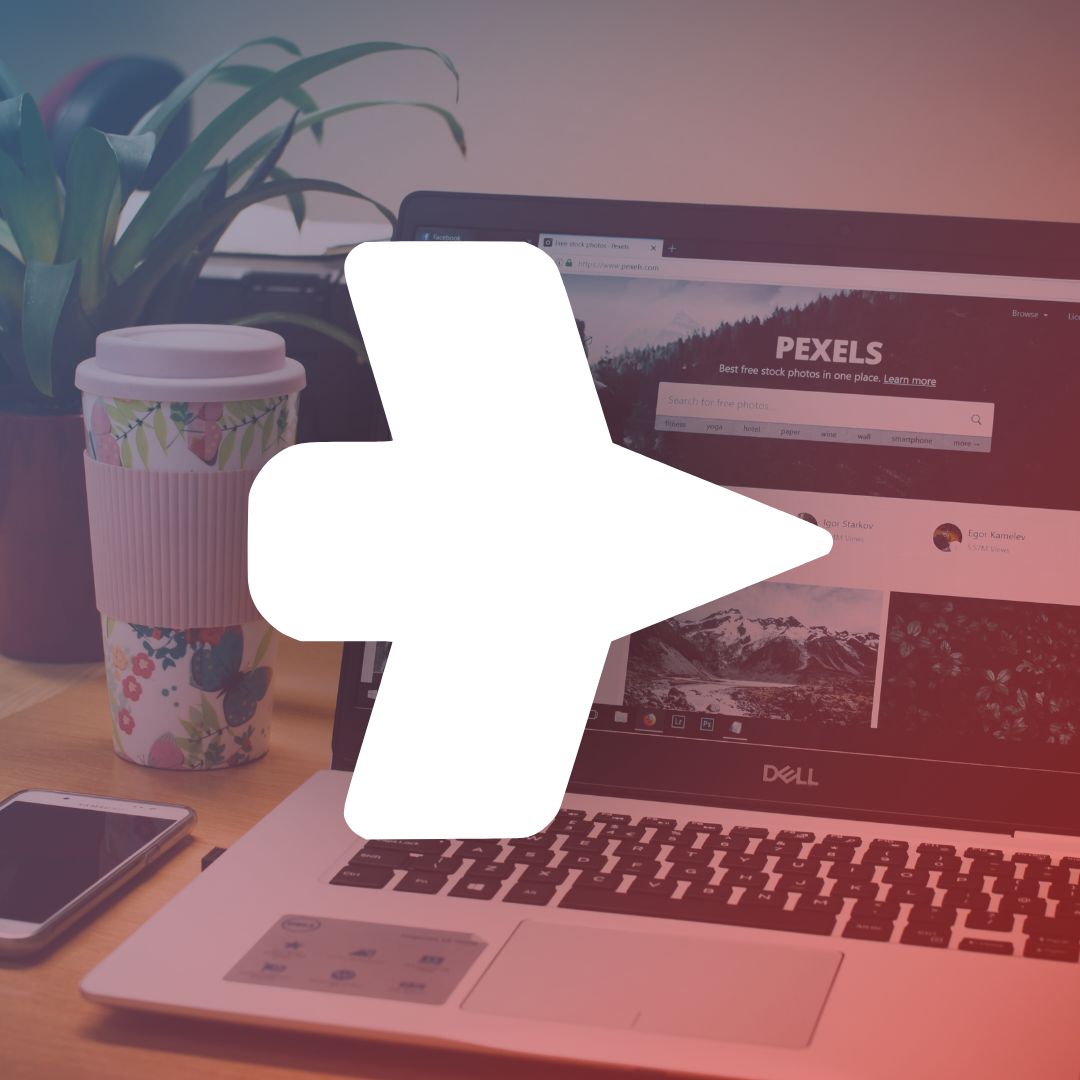
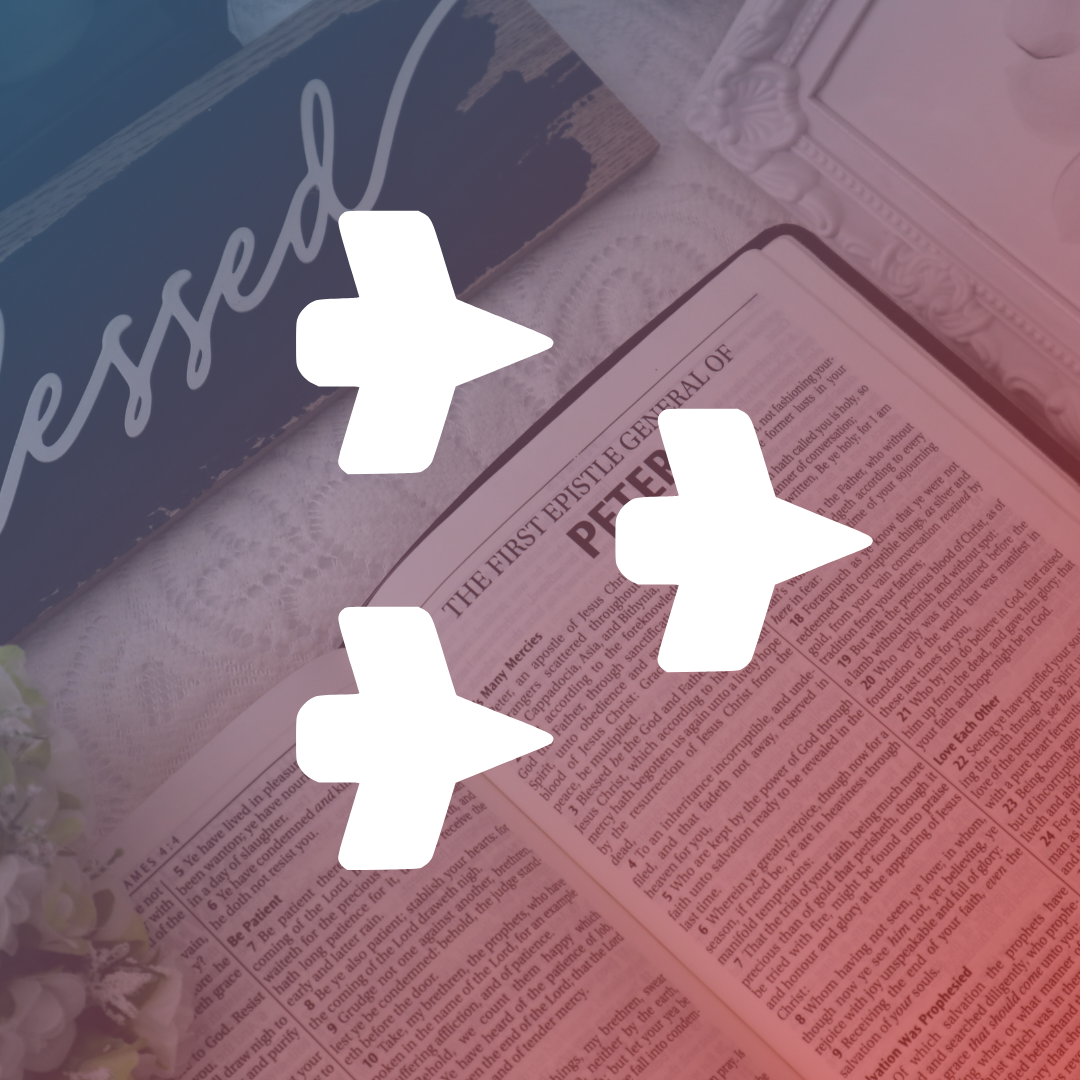
att vee project

diff --git a/src/data/projects/vee.ts b/src/data/projects/vee.ts
@@ -14,17 +14,17 @@ const vee = new Project("VEE", [rgmenezes]);
 
 vee.content = {
     summary: 
-    "A VEE é uma plataforma de criação de sites e sistemas que oferece soluções rápidas e profissionais para empreendedores digitais, tornando seu negócio online mais eficiente e acessível.",
-  
+    "A VEE é um espaço de estudo, reflexão e crescimento espiritual, oferecendo conteúdos que fortalecem a fé e incentivam aprendizado contínuo da Palavra.",
+
     cta: 
-    "Conhecer a VEE +",
-  
+    "Explorar a VEE +",
+
     description: 
-    `A VEE é um projeto da TART desenvolvido para ajudar empreendedores a terem presença digital de forma rápida e eficiente. Com a VEE, você pode criar sites e sistemas personalizados, garantindo que seu negócio esteja online com qualidade e sem complicações.\n
-    A plataforma foi criada para ser intuitiva, responsiva e segura, permitindo que você gerencie seus projetos digitais com facilidade, tanto em computadores quanto em dispositivos móveis.\n
-    Entre as principais funcionalidades da VEE estão: templates prontos e personalizáveis, sistemas sob medida de acordo com a necessidade do cliente, integração com ferramentas digitais e um painel de controle simples para gerenciar seu site ou sistema.\n
-    Durante o desenvolvimento da VEE, enfrentamos desafios como unir rapidez, design moderno e funcionalidade robusta. Todos foram superados para oferecer uma solução confiável e prática para empreendedores.\n
-    A VEE é ideal para quem deseja lançar seu negócio online de maneira profissional e ágil. Experimente a VEE e transforme suas ideias em sites e sistemas de qualidade com facilidade!`
+    `A VEE é um projeto que nasceu para ajudar pessoas a aprofundarem sua fé e fortalecerem sua conexão com Deus. Com a VEE, você encontra estudos, reflexões e recursos que facilitam o aprendizado da Palavra e promovem crescimento pessoal e espiritual.\n
+    O projeto foi desenvolvido para ser acessível, intuitivo e inspirador, permitindo que cada usuário explore conteúdos no seu próprio ritmo, tanto individualmente quanto em grupo.\n
+    Entre os principais recursos da VEE estão: trilhas de estudos guiadas, biblioteca de materiais devocionais, múltiplas versões da Bíblia, versículos do dia e espaços de reflexão e comunidade.\n
+    Durante o desenvolvimento, buscamos criar uma experiência que una profundidade, clareza e facilidade de uso, garantindo que cada visitante possa crescer na fé de forma significativa.\n
+    A VEE é ideal para quem deseja estudar a Palavra de maneira prática, reflexiva e engajadora. Descubra a VEE e transforme seu aprendizado espiritual em uma experiência concreta e pessoal!`
 };
 
 vee.images = {
